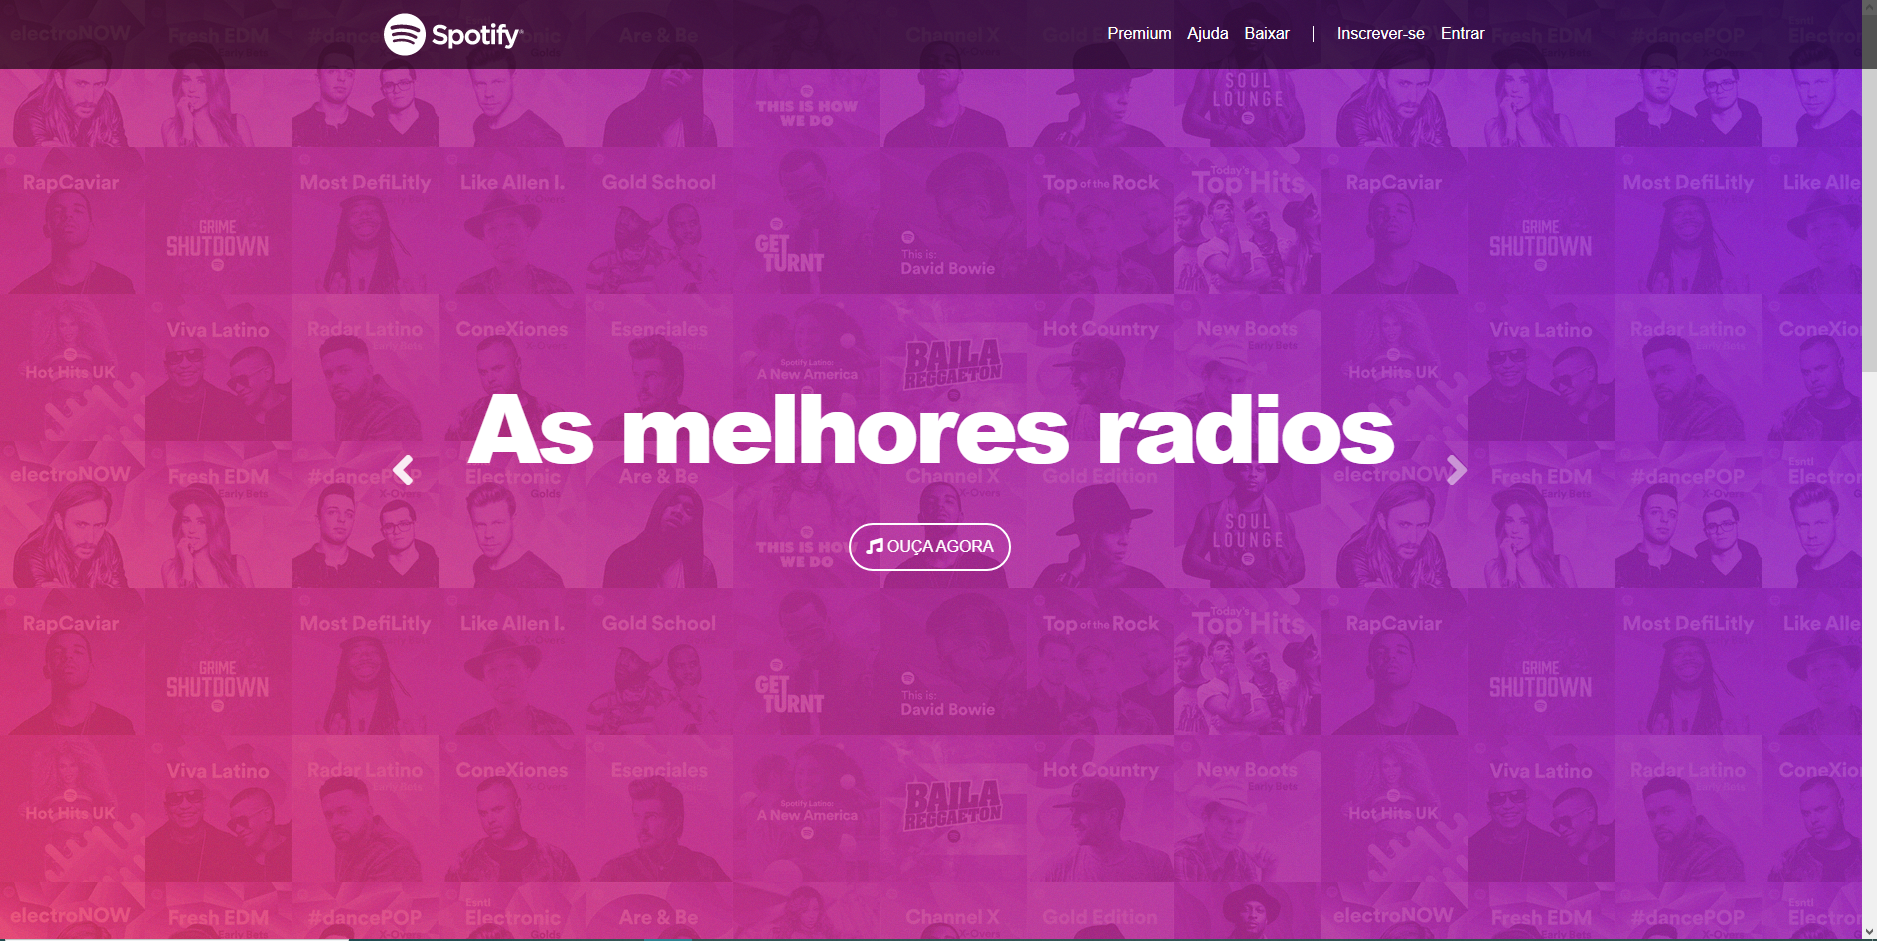
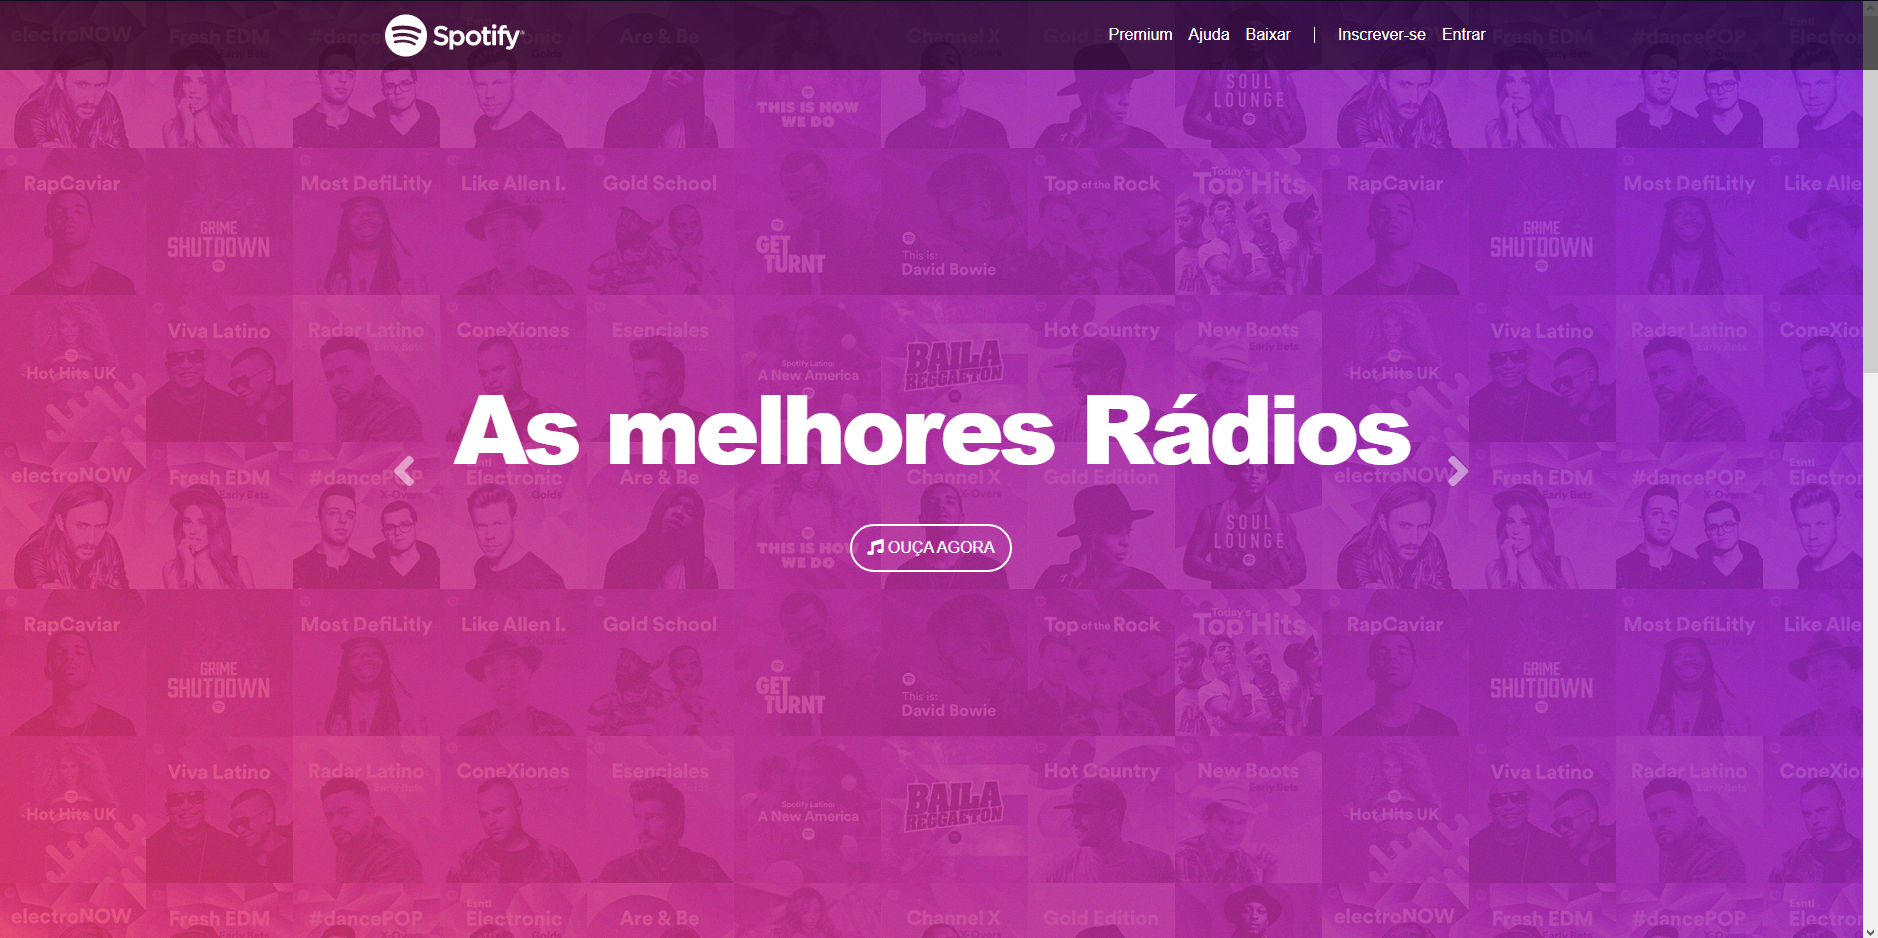
Alteração do print.png

diff --git a/index.html b/index.html
@@ -76,7 +76,7 @@
                 </div><!-- FIM / Item 1 -->
 
                 <div class="carousel-item"><!-- Item 2 -->
-                  <h1>As melhores radios</h1>
+                  <h1>As melhores Rádios</h1>
                   <a href="" class="btn btn-custom btn-branco">
                     <i class="fas fa-music"></i> Ouça agora
                   </a>
